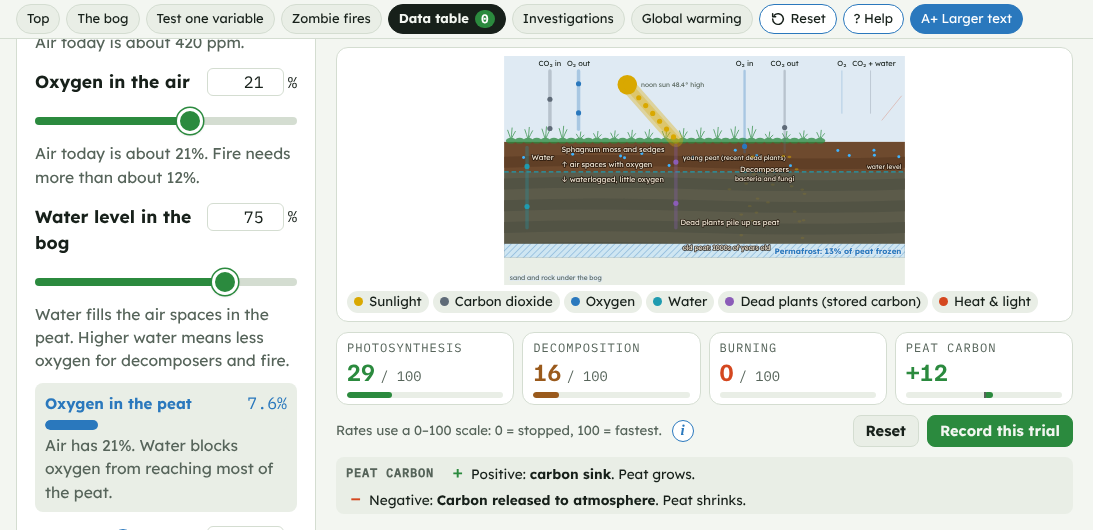
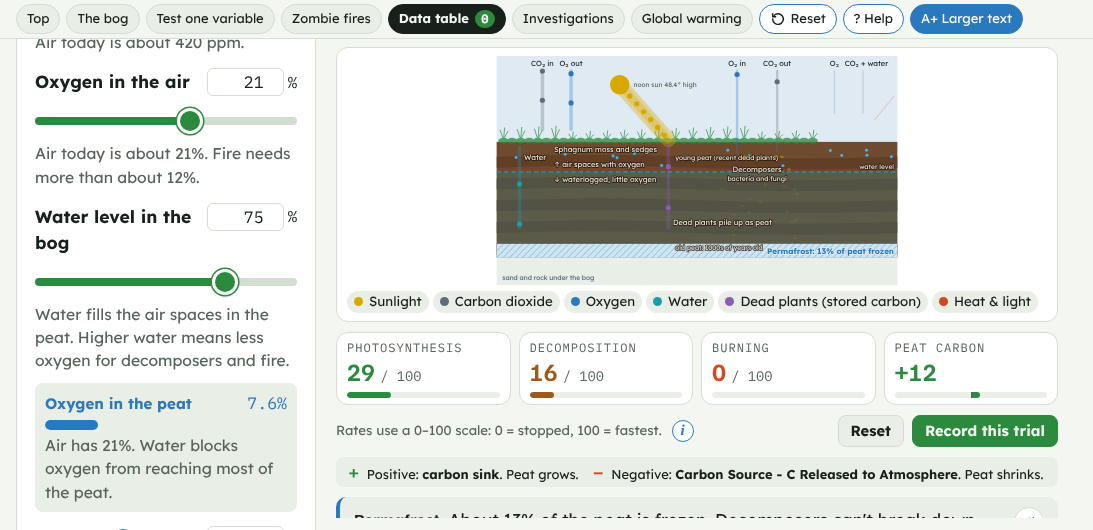
Reword negative Peat carbon key: Carbon Source - C Released to Atmosphere
Tighten the one-line key on small laptops so the longer wording still fits.

Claude-Session: https://claude.ai/code/session_019PWEK8XfAM6dZUi4Yw79Rv

diff --git a/index.html b/index.html
@@ -415,9 +415,13 @@ html.bigtext { font-size: 115%; }
   .lab .meter p, .lab .meters .meter:last-child > .unit { display: none; }
   .lab .meter .sub { font-size: 0.66rem; }
 }
+@media (min-width: 901px) and (max-width: 1250px) and (max-height: 760px) {
+  .netkey-wide { gap: 2px 10px; font-size: 0.7rem; padding: 4px 8px; }
+  .netkey-wide span:first-child { display: none; }
+}
 @media (min-width: 901px) and (max-width: 1050px) and (max-height: 760px) {
   .lab > .stage #bog { max-height: calc(100vh - 233px - var(--navh, 39px)); }
-  html.bigtext .lab > .stage #bog { max-height: calc(100vh - 262px - var(--navh, 39px)); }
+  html.bigtext .lab > .stage #bog { max-height: calc(100vh - 270px - var(--navh, 39px)); }
 }
 /* phones: bog picture scrolls sideways at a readable size */
 .swipe { display: none; font-size: 0.85rem; color: var(--muted); margin: 2px 4px 6px; }
@@ -575,7 +579,7 @@ html.bigtext { font-size: 115%; }
             <div class="bar net"><span id="nBar"></span></div>
             <div class="netkey">
               <span><b class="pos">+</b> Positive: <strong>carbon sink</strong>. Peat grows.</span>
-              <span><b class="neg">−</b> Negative: <strong>Carbon released to atmosphere</strong>. Peat shrinks.</span>
+              <span><b class="neg">−</b> Negative: <strong>Carbon Source - C Released to Atmosphere</strong>. Peat shrinks.</span>
             </div>
             <p id="nText"></p>
           </div>
@@ -587,7 +591,7 @@ html.bigtext { font-size: 115%; }
         <div class="netkey netkey-wide" aria-hidden="true">
           <span><b>PEAT CARBON</b></span>
           <span><b class="pos">+</b> Positive: <strong>carbon sink</strong>. Peat grows.</span>
-          <span><b class="neg">−</b> Negative: <strong>Carbon released to atmosphere</strong>. Peat shrinks.</span>
+          <span><b class="neg">−</b> Negative: <strong>Carbon Source - C Released to Atmosphere</strong>. Peat shrinks.</span>
         </div>
         <div class="notes" id="notes" aria-live="polite"></div>
       </div>
